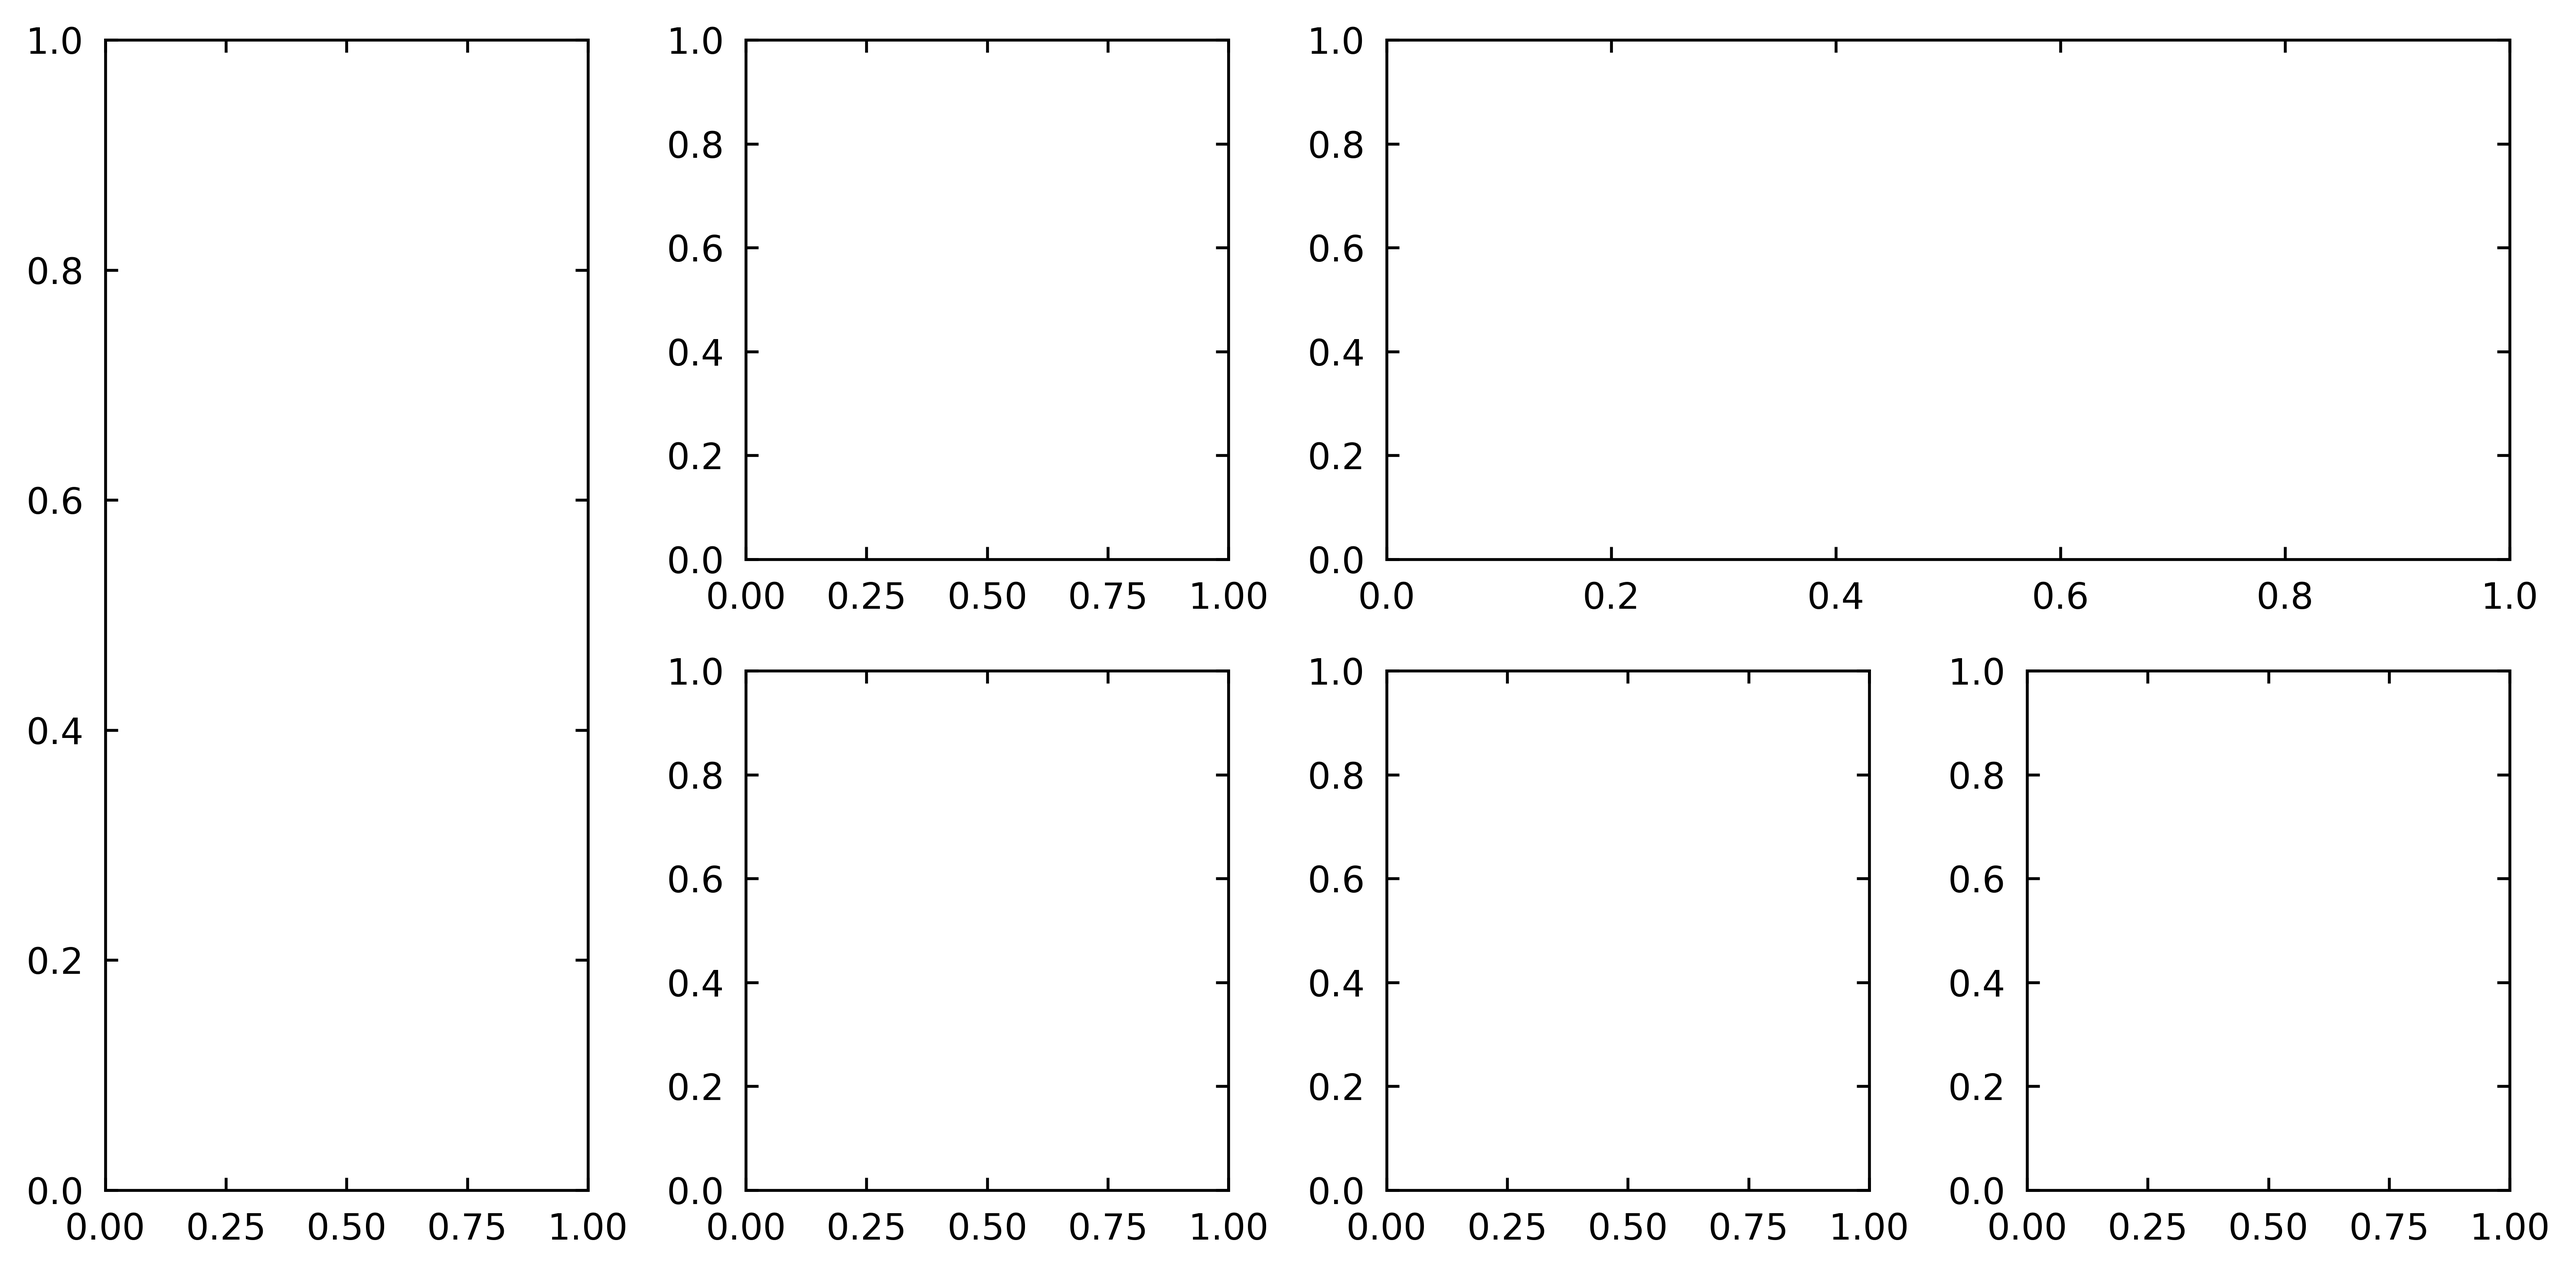
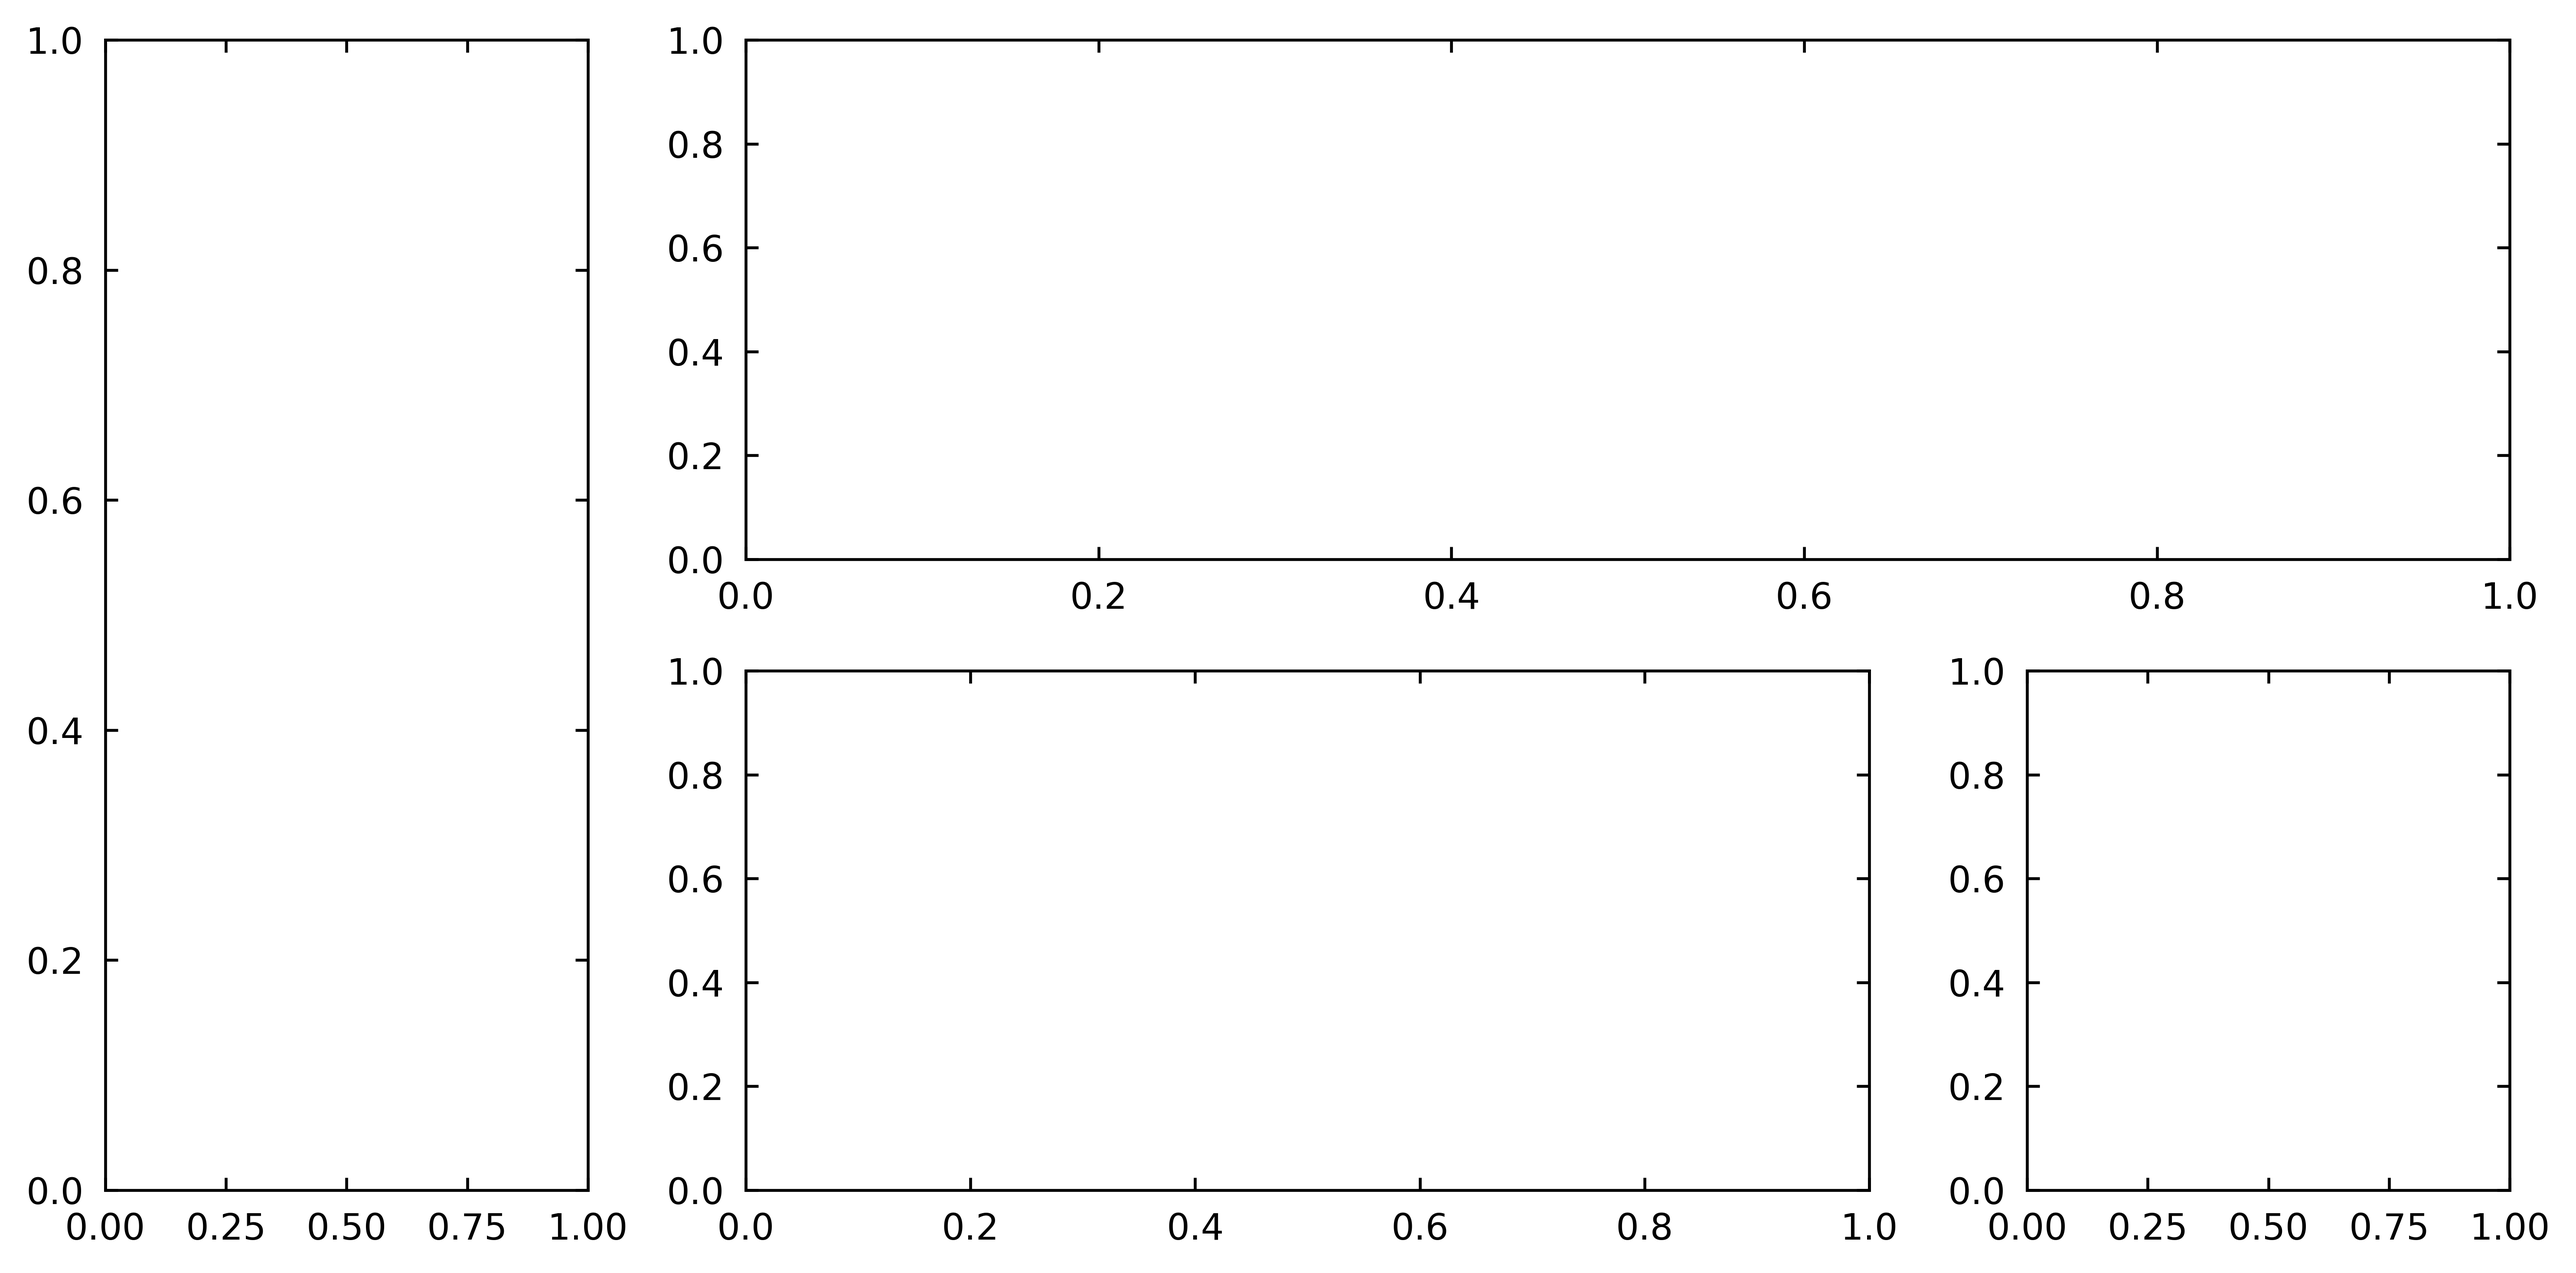
doc: fix warnings from sphinx 🐛

diff --git a/gsplot/plot/line_colormap_dashed.py b/gsplot/plot/line_colormap_dashed.py
@@ -498,10 +498,7 @@ def line_colormap_dashed(
 
     Notes
     --------------------
-    - This function utilizes the `ParamsGetter` to retrieve bound parameters and
-    the `CreateClassParams` class to handle the merging of default, configuration,
-    and passed parameters.
-
+    - This function utilizes the `ParamsGetter` to retrieve bound parameters and the `CreateClassParams` class to handle the merging of default, configuration, and passed parameters.
     - Alias validation is performed using the `AliasValidator` class.
 
         - `lw` for `linewidth`

diff --git a/gsplot/plot/line_colormap_solid.py b/gsplot/plot/line_colormap_solid.py
@@ -245,10 +245,7 @@ def line_colormap_solid(
 
     Notes
     --------------------
-    - This function utilizes the `ParamsGetter` to retrieve bound parameters and
-    the `CreateClassParams` class to handle the merging of default, configuration,
-    and passed parameters.
-
+    - This function utilizes the `ParamsGetter` to retrieve bound parameters and the `CreateClassParams` class to handle the merging of default, configuration, and passed parameters.
     - Alias validation is performed using the `AliasValidator` class.
 
         - 'lw' (linewidth)

diff --git a/gsplot/plot/scatter_colormap.py b/gsplot/plot/scatter_colormap.py
@@ -253,10 +253,7 @@ def scatter_colormap(
 
     Notes
     --------------------
-    - This function utilizes the `ParamsGetter` to retrieve bound parameters and
-    the `CreateClassParams` class to handle the merging of default, configuration,
-    and passed parameters.
-
+    - This function utilizes the `ParamsGetter` to retrieve bound parameters and the `CreateClassParams` class to handle the merging of default, configuration, and passed parameters.
     - Alias validation is performed using the `AliasValidator` class.
 
         - 's' (size)

diff --git a/gsplot/plot/line.py b/gsplot/plot/line.py
@@ -266,10 +266,7 @@ def line(
 
     Notes
     --------------------
-    - This function utilizes the `ParamsGetter` to retrieve bound parameters and
-    the `CreateClassParams` class to handle the merging of default, configuration,
-    and passed parameters.
-
+    - This function utilizes the `ParamsGetter` to retrieve bound parameters and the `CreateClassParams` class to handle the merging of default, configuration, and passed parameters.
     - Alias validation is performed using the `AliasValidator` class.
 
         - 'ms' (markersize)

diff --git a/gsplot/plot/scatter.py b/gsplot/plot/scatter.py
@@ -188,10 +188,7 @@ def scatter(
 
     Notes
     --------------------
-    - This function utilizes the `ParamsGetter` to retrieve bound parameters and
-    the `CreateClassParams` class to handle the merging of default, configuration,
-    and passed parameters.
-
+    - This function utilizes the `ParamsGetter` to retrieve bound parameters and the `CreateClassParams` class to handle the merging of default, configuration, and passed parameters.
     - Alias validation is performed using the `AliasValidator` class.
 
         - 's' (size)

diff --git a/demo/1_axes/axes.py b/demo/1_axes/axes.py
@@ -5,12 +5,12 @@ axes = gs.axes(
     store=True,
     size=[10, 5],
     mosaic="""
-           ABCC
-           ADEF
+           ABBB
+           ACCD
            """,
 )
 # You can also use the following syntax
-# axes = gs.axes(store=True, size=[10, 5], mosaic="ABCC;ADEF")
+# axes = gs.axes(store=True, size=[10, 5], mosaic="ABBB;ACCD")
 
 # Show figure and store figure with the name "axes"
 gs.show("axes")
